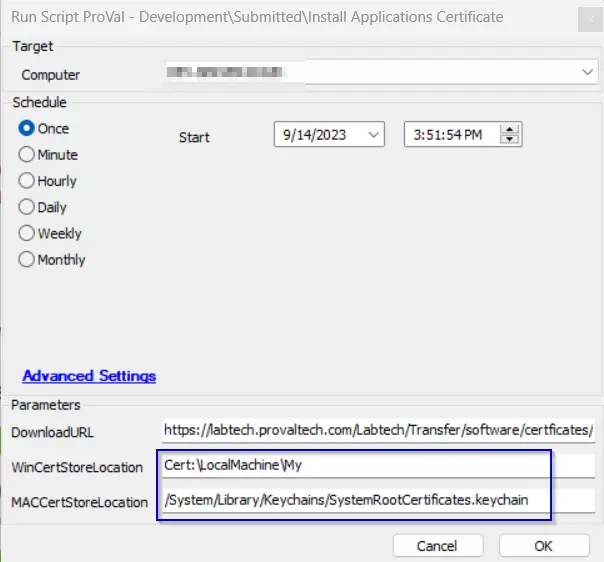
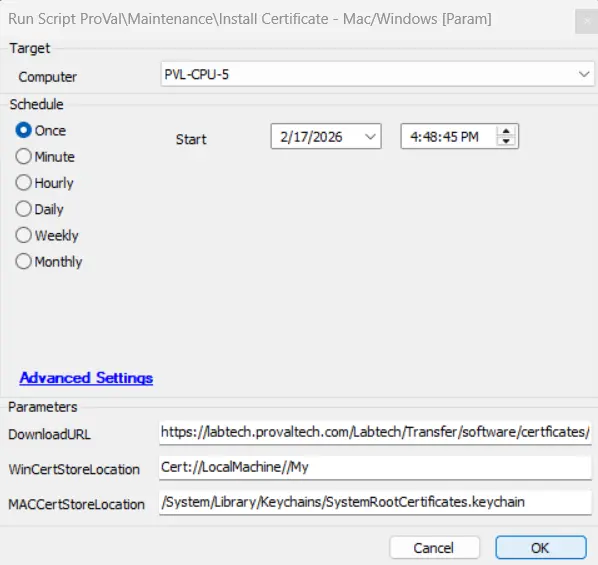
QA - Update

diff --git a/docs/cwa/scripts/esxi-snapshot-create-param.md b/docs/cwa/scripts/esxi-snapshot-create-param.md
@@ -1,8 +1,8 @@
 ---
 id: 'a2b7d882-f8a5-4273-b237-cabe1662f195'
 slug: /a2b7d882-f8a5-4273-b237-cabe1662f195
-title: 'ESXi - Snapshot Create Param'
-title_meta: 'ESXi - Snapshot Create Param'
+title: 'ESXi - Snapshot Create [Param]'
+title_meta: 'ESXi - Snapshot Create [Param]'
 keywords: ['esxi', 'snapshot', 'vmware', 'powercli', 'automation']
 description: 'This document outlines a script for creating snapshots of virtual machines hosted on an ESXi server using the VMware PowerCLI module. It includes prerequisites, dependencies, user parameters, and alerting mechanisms for successful and failed executions.'
 tags: ['backup', 'security', 'virtualization', 'windows']
@@ -25,7 +25,7 @@ Example:  CW-Automate-Temp-Snapshot_20230501_081958
 ### Notes
 
 - The script must be executed from a machine that is reachable to the ESXi Host.
-- [CWM - Automate - ESXi - Snapshot Delete [Param]](/docs/830beb63-113a-406e-aef2-046403de9cb9) will be called to remove the generated snapshot after the hours specified in the `@Hours_To_Keep@` user parameter. The schedule depends on the computer's status in Automate. For example, if `@Hours_To_Keep@` is set to 24, then Automate will schedule the deletion script to run on the same machine after 24 hours. However, the deletion script will not work if the machine is offline after that period.
+- [ESXi - Snapshot Delete [Param]](/docs/830beb63-113a-406e-aef2-046403de9cb9) will be called to remove the generated snapshot after the hours specified in the `@Hours_To_Keep@` user parameter. The schedule depends on the computer's status in Automate. For example, if `@Hours_To_Keep@` is set to 24, then Automate will schedule the deletion script to run on the same machine after 24 hours. However, the deletion script will not work if the machine is offline after that period.
 - It is suggested to execute the script against servers that are mostly online.
 
 ## Prerequisites

diff --git a/docs/cwa/scripts/esxi-snapshot-delete-param.md b/docs/cwa/scripts/esxi-snapshot-delete-param.md
@@ -1,8 +1,8 @@
 ---
 id: '830beb63-113a-406e-aef2-046403de9cb9'
 slug: /830beb63-113a-406e-aef2-046403de9cb9
-title: 'CWM - Automate - ESXi - Snapshot Delete Param'
-title_meta: 'CWM - Automate - ESXi - Snapshot Delete Param'
+title: 'ESXi - Snapshot Delete [Param]'
+title_meta: 'ESXi - Snapshot Delete [Param]'
 keywords: ['esxi', 'snapshot', 'delete', 'virtualmachine', 'automation']
 description: 'This document provides a comprehensive guide on using a PowerShell script to delete a snapshot of a machine hosted on an ESXi host server utilizing the PowerCLI module. It covers prerequisites, dependencies, user parameters, and alerting mechanisms for successful execution.'
 tags: ['alerting', 'email', 'esxi', 'logging']
@@ -39,9 +39,9 @@ This script can be used to delete a snapshot of a machine hosted on an ESXi host
 
 ## Dependencies
 
-[CWM - Automate - Script - ESXi - Snapshot Create [Param]](/docs/a2b7d882-f8a5-4273-b237-cabe1662f195)  
+- [Script - ESXi - Snapshot Create [Param]](/docs/a2b7d882-f8a5-4273-b237-cabe1662f195)  
 
-**Note:** This script can be scheduled with proper parameters to remove the snapshot created by the [CWM - Automate - Script - ESXi - Snapshot Create [Param]](/docs/a2b7d882-f8a5-4273-b237-cabe1662f195) script after `@Hours_To_Keep@` hours.
+**Note:** This script can be scheduled with proper parameters to remove the snapshot created by the [Snapshot Create [Param]](/docs/a2b7d882-f8a5-4273-b237-cabe1662f195) script after `@Hours_To_Keep@` hours.
 
 ## Variables
 

diff --git a/docs/cwa/scripts/internal-monitor-failure-check-autofix-properties.md b/docs/cwa/scripts/internal-monitor-failure-check-autofix-properties.md
@@ -1,8 +1,8 @@
 ---
 id: '7afc7157-5254-46ab-8e4d-ea8b7c735f1b'
 slug: /7afc7157-5254-46ab-8e4d-ea8b7c735f1b
-title: 'Internal Monitor - Failure Check Autofix,Properties'
-title_meta: 'Internal Monitor - Failure Check Autofix,Properties'
+title: 'Internal Monitor - Failure Check [Autofix,Properties]'
+title_meta: 'Internal Monitor - Failure Check [Autofix,Properties]'
 keywords: ['monitor', 'failure', 'ticket', 'autofix', 'system', 'properties', 'check']
 description: 'This document outlines the functionality of the Internal Monitor - Failure Check script, which generates tickets for internal monitors that have been disabled due to failure. It includes details on the Autofix feature, system properties, and implementation steps for both new and updated scripts.'
 tags: ['email']

diff --git a/docs/cwa/scripts/install-certificate-macwindows-param.md b/docs/cwa/scripts/install-certificate-macwindows-param.md
@@ -1,8 +1,8 @@
 ---
 id: '57e85773-11e3-46db-97f1-5aae835cfd62'
 slug: /57e85773-11e3-46db-97f1-5aae835cfd62
-title: 'Install Certificate - MacWindows Param'
-title_meta: 'Install Certificate - MacWindows Param'
+title: 'Install Certificate - Mac/Windows [Param]'
+title_meta: 'Install Certificate - Mac/Windows [Param]'
 keywords: ['certificate', 'windows', 'mac', 'install', 'root', 'trusted', 'keychain', 'location']
 description: 'This document provides a script that installs a certificate to a specified location on Windows and MAC machines. It explains how to use the User parameter to provide a direct download URL for the certificate and details the sample run for both environments.'
 tags: ['installation', 'security', 'setup', 'windows']

diff --git a/docs/cwa/scripts/add-required-cipher-suites-rmm.md b/docs/cwa/scripts/add-required-cipher-suites-rmm.md
@@ -20,7 +20,7 @@ The goal of this script is to add the [Cipher Suites](https://docs.connectwise.c
 
 ## Dependencies
 
-[CWM - Automate - RMM+ Plugin Configuration](/docs/f99ddaae-0cb3-4941-b2aa-dc93671dd246)
+[RMM+ Plugin Configuration](/docs/f99ddaae-0cb3-4941-b2aa-dc93671dd246)
 
 ## Variables
 
